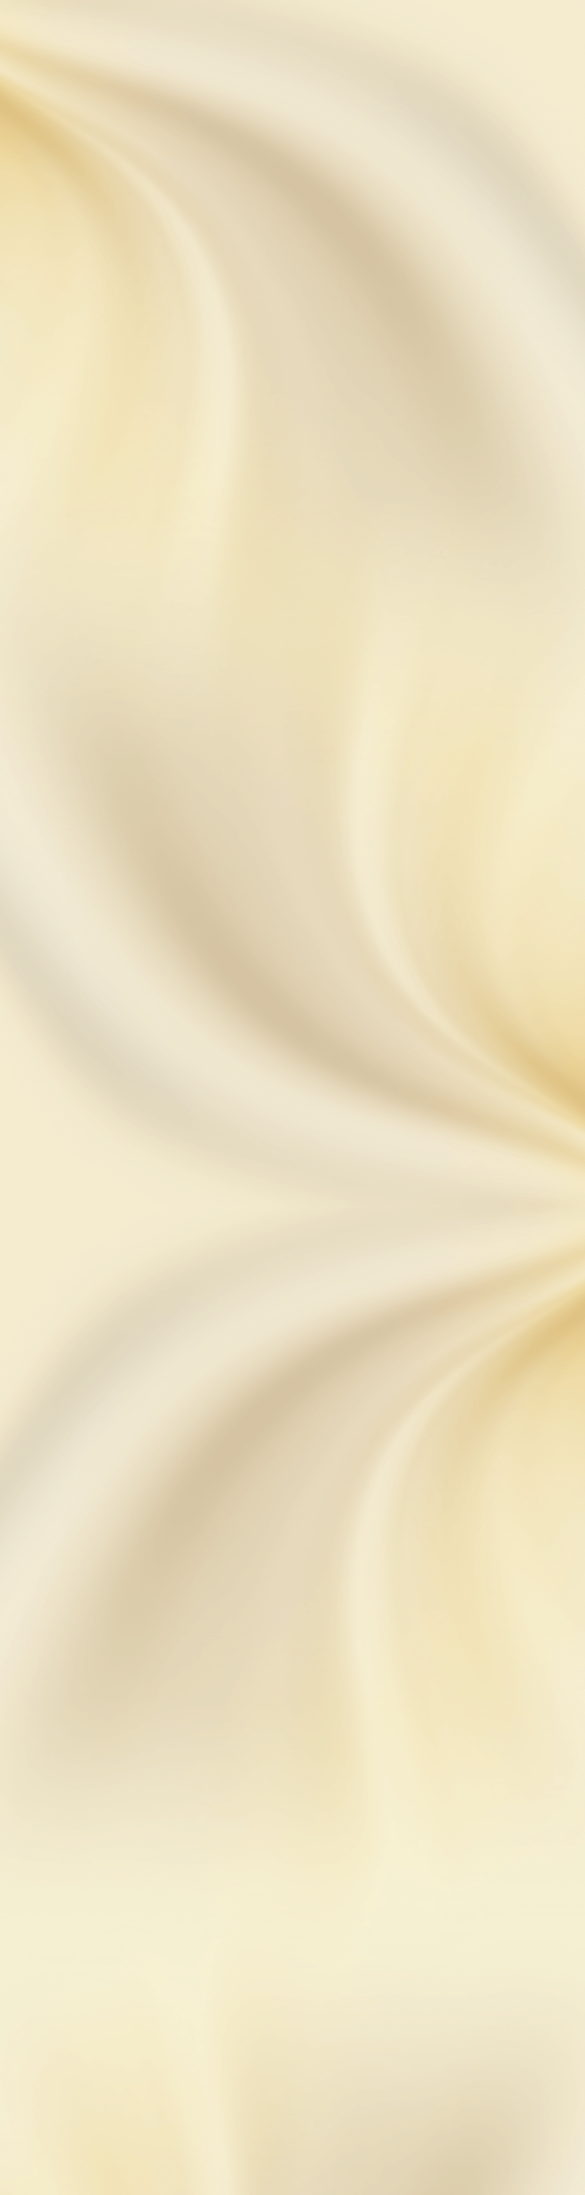
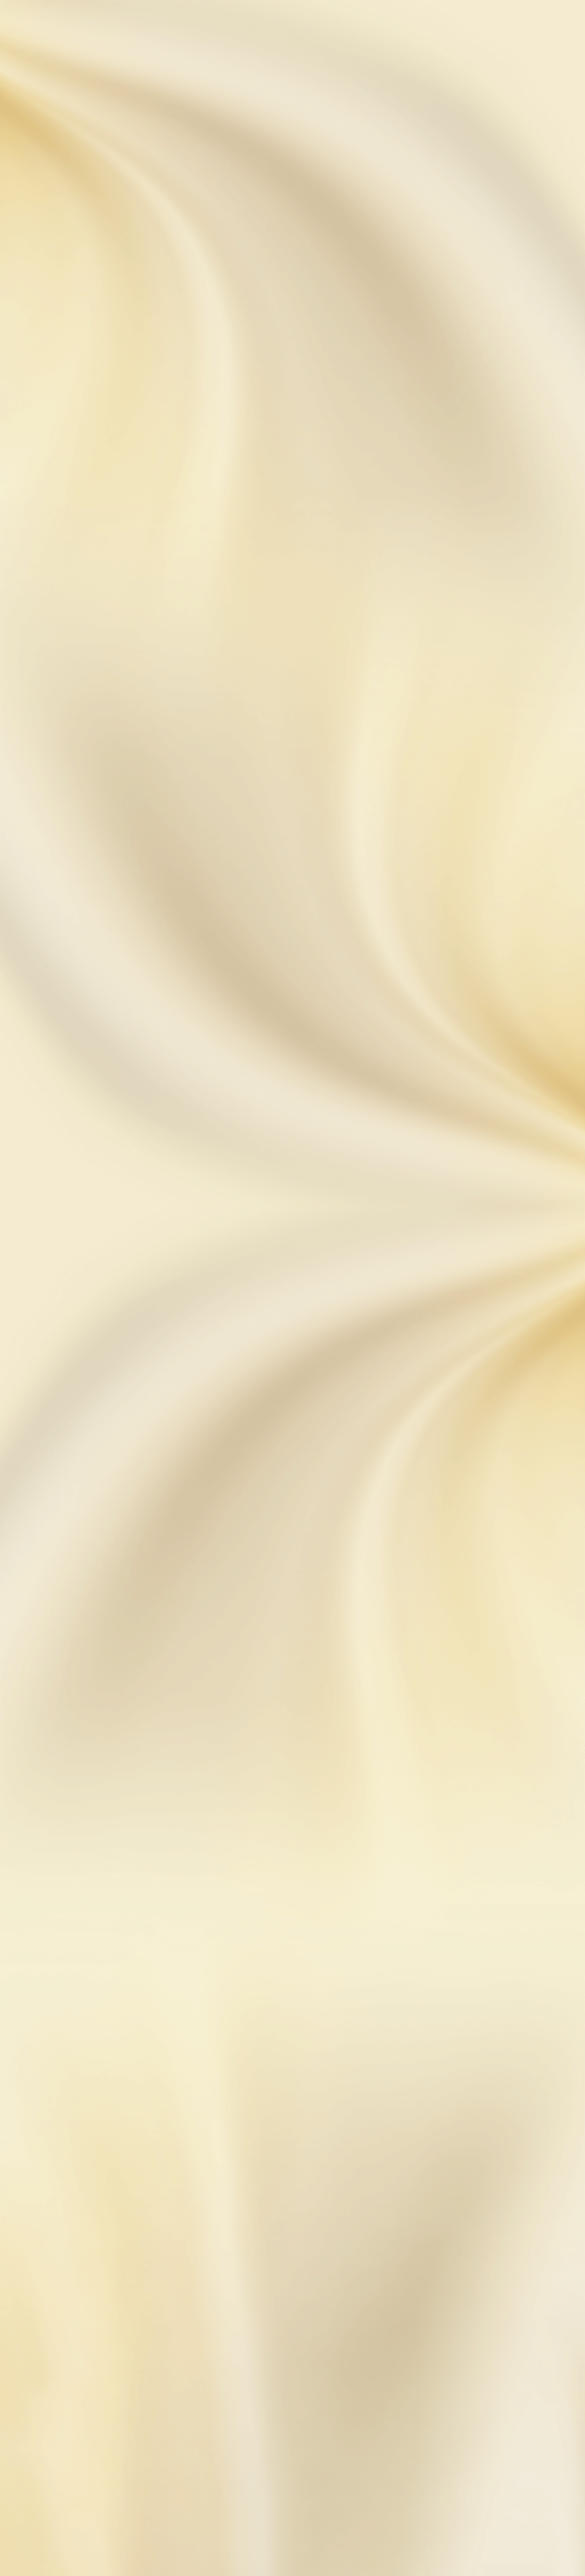
main-wrapperの背景画像をPhotoShopの「コンテンツに応じた塗りつぶし」で引き伸ばしました。また、全体のデザインを画面幅に合わせ、調整しました。ここまでで、画面サイズが大きくなっても要素要素はとりあえず画面の中央に配置されるようになりました。

diff --git a/kosyu.scss b/kosyu.scss
@@ -23,7 +23,8 @@ input,select{vertical-align:middle}
 
 body {
     font-family: "游ゴシック体", YuGothic, "游ゴシック Medium", "Yu Gothic Medium", "游ゴシック", "Yu Gothic", sans-serif;
-    width: 1400px;
+    //width: 1400px;
+    width: 100%;
     //とりあえず文字間2pxとしている
     letter-spacing: 2px;
 }
@@ -58,7 +59,9 @@ body {
     }
 }
 .main__topImage {
-    height: 544px;
+    img {
+        width: 100%;
+    }
 }
 /*見出し*/
 .headline {
@@ -71,9 +74,8 @@ body {
     letter-spacing: 5.5px;
 }
 .main-wrapper {
-    //height: 5253px;
-    height: 6150px;
-    background-image: url("./image/backgroundMain.png");
+    margin-top: -2px;
+    background: url("./image/backgroundMain.png") center center / cover no-repeat;
     &__headline {
         width: 492.8px;
         //margin: 0px 448px 72px 459px;
@@ -203,8 +205,8 @@ body {
             }
         }
         &__table2 {
-            margin-top: 41px;
-            margin-left: 87px;
+            width: 1226px;
+            margin: 41px auto 0 auto;
             display: flex;
             &--first {
                 margin-right: 32px;
@@ -777,6 +779,7 @@ body {
         }
         &__table2 {
             margin: 42px auto 0 auto;
+            padding-bottom: 100px;
             width: 1226px;
             .head {
                 height: 49px;
@@ -982,17 +985,6 @@ body {
             width: 100%;
         }
     }
-    /*&__contactToMail {
-        width: calc(361 / 1400 * 100%);
-        margin: 0 auto 0 auto;
-        margin-top: calc(207 / 1400 * (-100%));
-        img {
-            width: 100%;
-            &:hover {
-                color: lighten(#4698a2, 50%);
-            }
-        }
-    }*/
     &__contactToMail {
         height: 60px;
         width: 351px;
@@ -1072,7 +1064,7 @@ body {
 }
 .footer-wrapper2 {
     height: 265px;
-    background: url("./image/backgroundFooter.png");
+    background: url("./image/backgroundFooter.png") center center / cover no-repeat;
     position: relative;
     .pageTop {
         position: absolute;

diff --git a/kosyu.css b/kosyu.css
@@ -84,7 +84,7 @@ input, select {
 /*レスポンシブ（要相談）*/
 body {
   font-family: "游ゴシック体", YuGothic, "游ゴシック Medium", "Yu Gothic Medium", "游ゴシック", "Yu Gothic", sans-serif;
-  width: 1400px;
+  width: 100%;
   letter-spacing: 2px;
 }
 
@@ -126,8 +126,8 @@ body {
   opacity: 0.6;
 }
 
-.main__topImage {
-  height: 544px;
+.main__topImage img {
+  width: 100%;
 }
 
 /*見出し*/
@@ -140,8 +140,8 @@ body {
 }
 
 .main-wrapper {
-  height: 6150px;
-  background-image: url("./image/backgroundMain.png");
+  margin-top: -2px;
+  background: url("./image/backgroundMain.png") center center/cover no-repeat;
   /*共通部分の設計*/
   /*各講習部分の詳細設計*/
   /*導入講習*/
@@ -307,8 +307,8 @@ body {
 }
 
 .main-wrapper .donyu__table2 {
-  margin-top: 41px;
-  margin-left: 87px;
+  width: 1226px;
+  margin: 41px auto 0 auto;
   display: -webkit-box;
   display: -ms-flexbox;
   display: flex;
@@ -1081,6 +1081,7 @@ body {
 
 .main-wrapper .staffTec__table2 {
   margin: 42px auto 0 auto;
+  padding-bottom: 100px;
   width: 1226px;
 }
 
@@ -1301,17 +1302,6 @@ body {
   background: url("./image/footImage/footImage-background.png") center center/cover no-repeat;
   position: relative;
   z-index: 1;
-  /*&__contactToMail {
-        width: calc(361 / 1400 * 100%);
-        margin: 0 auto 0 auto;
-        margin-top: calc(207 / 1400 * (-100%));
-        img {
-            width: 100%;
-            &:hover {
-                color: lighten(#4698a2, 50%);
-            }
-        }
-    }*/
 }
 
 .footImage__title {
@@ -1429,7 +1419,7 @@ body {
 
 .footer-wrapper2 {
   height: 265px;
-  background: url("./image/backgroundFooter.png");
+  background: url("./image/backgroundFooter.png") center center/cover no-repeat;
   position: relative;
 }
 
